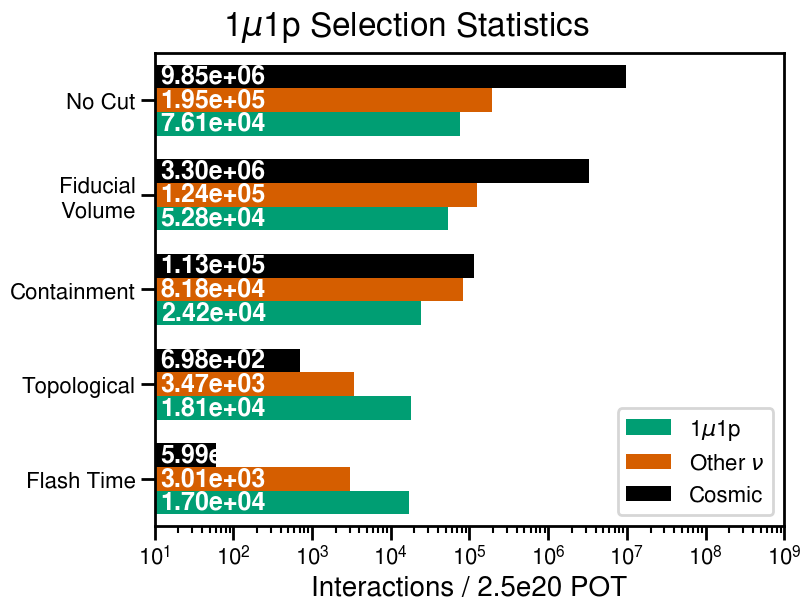
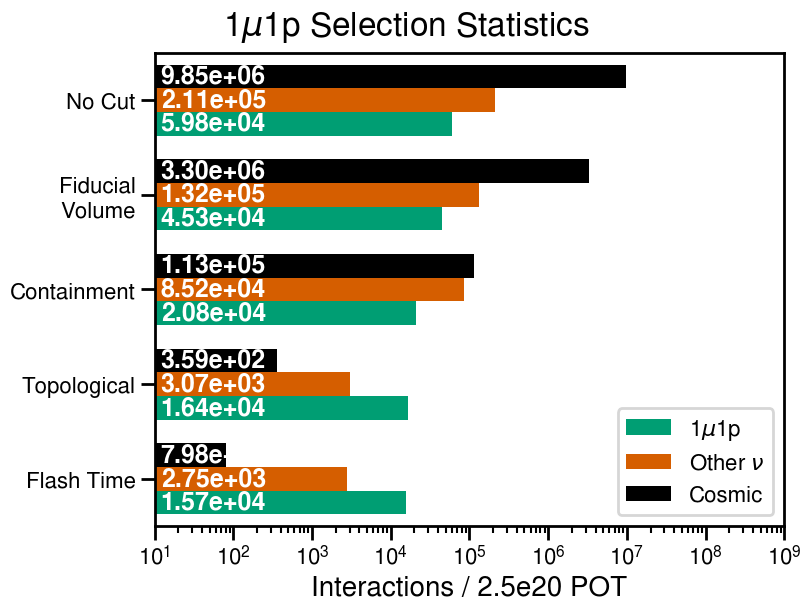
Fix bug causing muon KE threshold to be set to 25 MeV

diff --git a/include/variables.h b/include/variables.h
@@ -94,18 +94,7 @@ namespace vars
             uint16_t cat(6);
             if(interaction.is_neutrino)
             {
-                uint32_t counts[5] = {};
-                for(auto &p : interaction.particles)
-                {
-                    if(p.is_primary)
-                    {
-                        double energy(p.csda_ke);
-                        if constexpr (std::is_same_v<T, caf::SRInteractionTruthDLPProxy>)
-                            energy = p.energy_deposit;
-                        if((p.pid < 4 && energy > 25) || (p.pid == 4 && energy > 50))
-                            ++counts[p.pid];
-                    }
-                }
+                std::vector<uint32_t> counts(cuts::count_primaries(interaction));
                 if(counts[0] == 0 && counts[1] == 0 && counts[2] == 1)
                 {
                     if(counts[3] == 0 && counts[4] == 1 && interaction.is_contained && interaction.is_fiducial) cat = 0;

diff --git a/include/cuts.h b/include/cuts.h
@@ -62,7 +62,7 @@ namespace cuts
                         energy = p.energy_deposit;
                     if(p.pid == 2 && energy > 143.425) // Muon greater than 50 cm.
                         ++counts[p.pid];
-                    else if((p.pid < 4 && energy > 25) || (p.pid == 4 && energy > 50))
+                    else if((p.pid != 2 && p.pid < 4 && energy > 25) || (p.pid == 4 && energy > 50))
                         ++counts[p.pid];
                 }
             }
